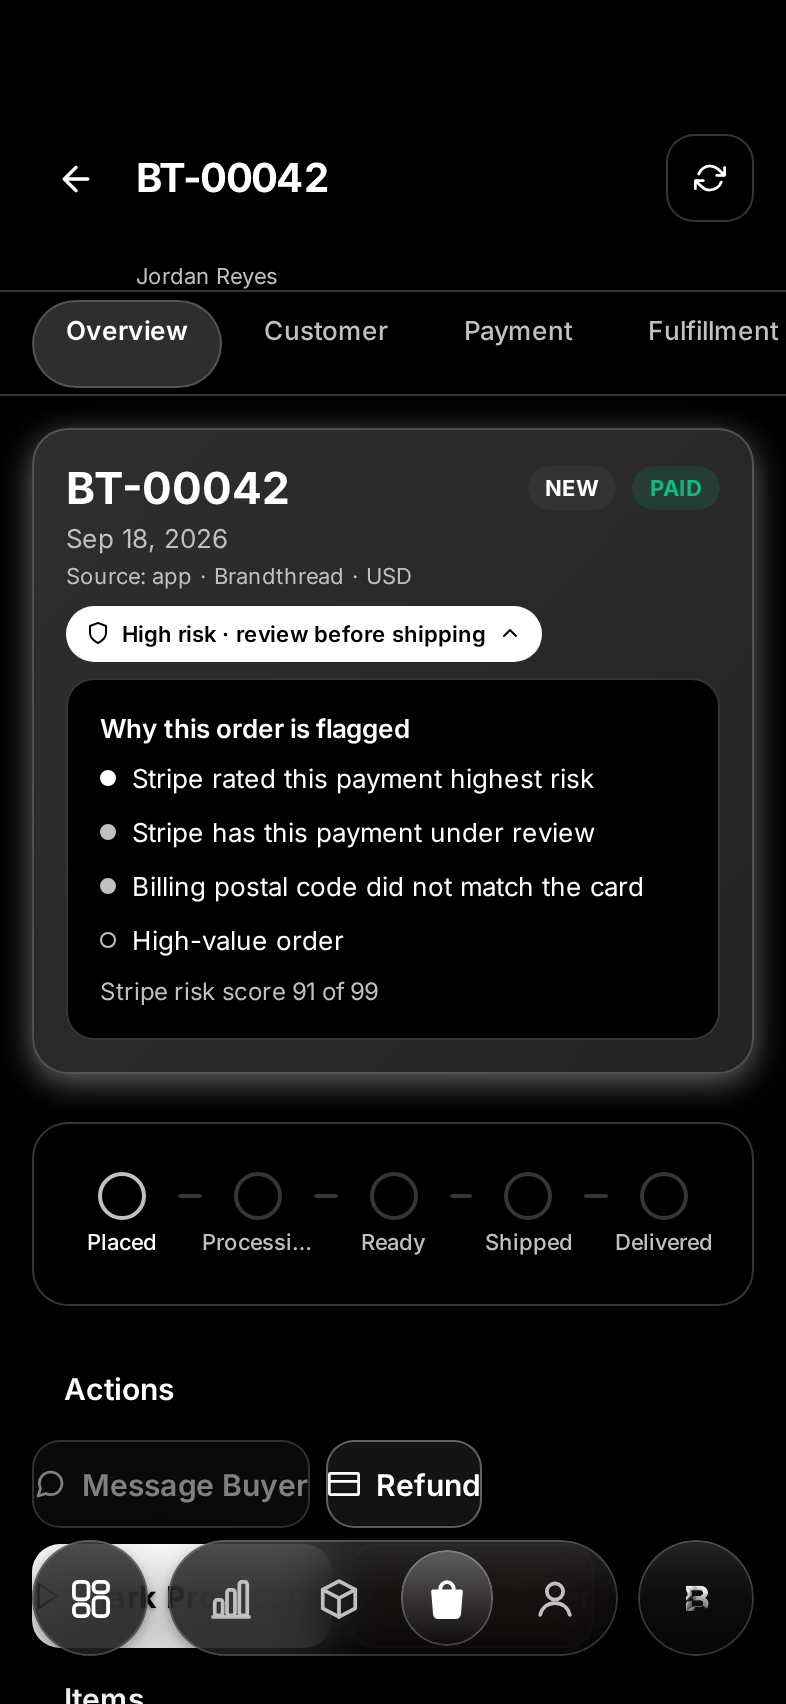
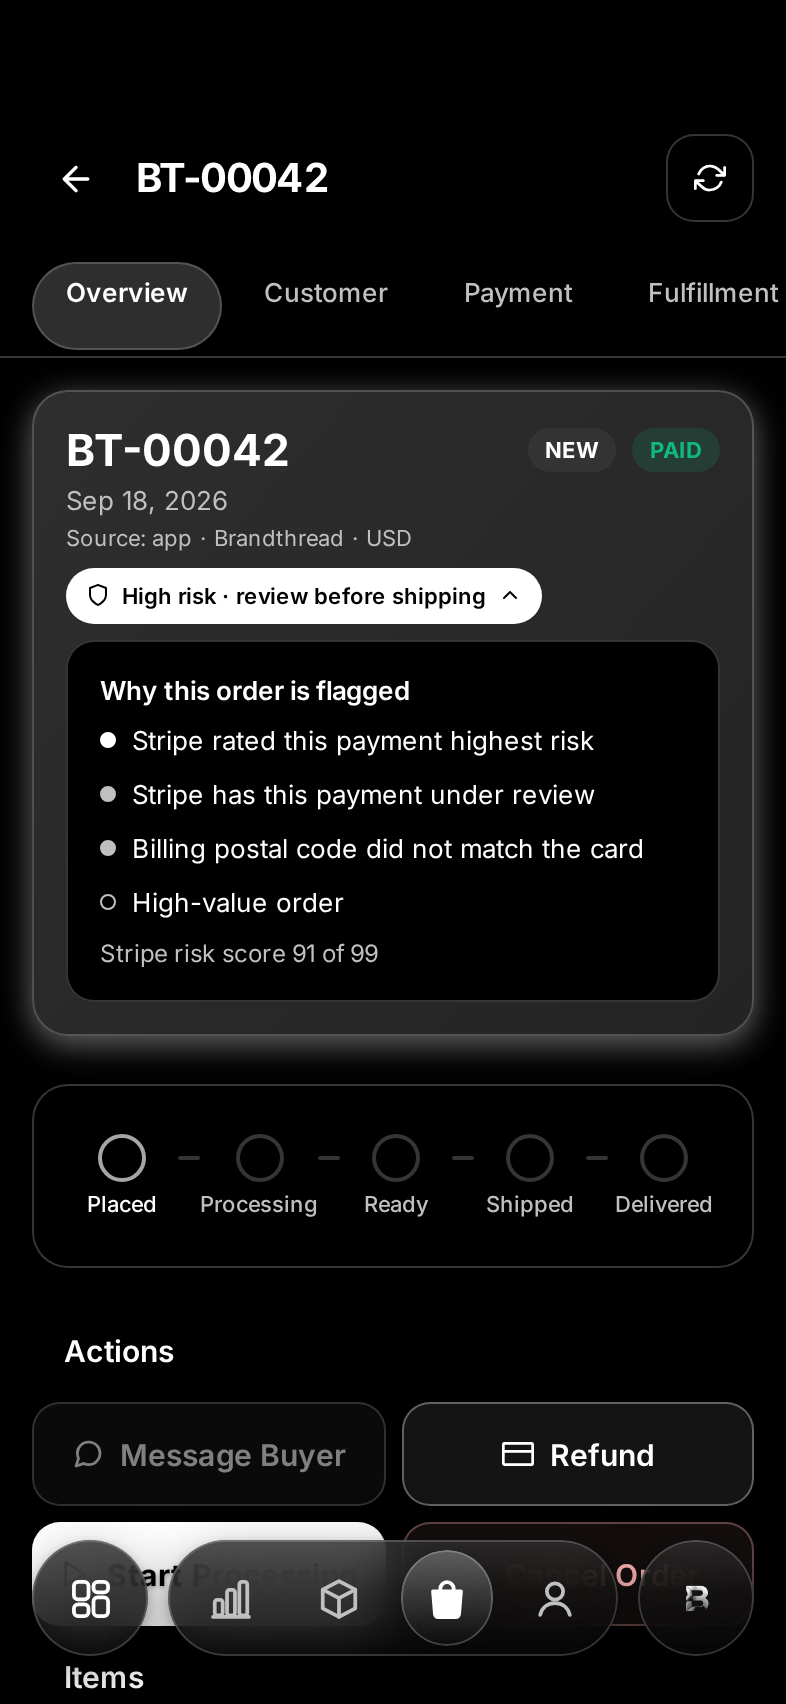
Order detail text-fit pass: bare header, equal action grid, untruncated step labels, fit audit
Claude-Session: https://claude.ai/code/session_01Ma6qha3jaE6QgkAFX2DNVQ

diff --git a/artifacts/mobile/app/order-detail.tsx b/artifacts/mobile/app/order-detail.tsx
@@ -823,7 +823,7 @@ export default function OrderDetailScreen() {
       {/* Header */}
       <ScreenHeader
         title={order.orderNumber}
-        subtitle={order.customer.name}
+        hideDivider
         variant="push"
         onBack={() => goBackOr(router, '/(tabs)/orders')}
         actions={[{ icon: 'refresh-cw', onPress: retryUpdates, accessibilityLabel: 'Refresh order' }]}
@@ -1102,20 +1102,20 @@ function OverviewTab({ order, onMarkProcessing, onMarkReadyToShip, onMarkShipped
       <View style={s.actionSection}>
         <SectionHeader title="Actions" />
         <View style={s.actionRow}>
-          <SecondaryButton
+          <View style={s.actionCell}><SecondaryButton
             label={messagingBuyer ? 'Opening…' : 'Message Buyer'}
             onPress={onMessageBuyer}
             icon="message-circle"
             disabled={messagingBuyer || !order.customer.buyerUserId}
-            style={{ flex: 1 }}
-          />
+            style={s.actionFill}
+          /></View>
           {order.payment.amountPaidCents > order.payment.amountRefundedCents && (
-            <SecondaryButton
+            <View style={s.actionCell}><SecondaryButton
               label="Refund"
               onPress={() => router.push(`/refund-detail?orderId=${order.id}` as never)}
               icon="credit-card"
-              style={{ flex: 1 }}
-            />
+              style={s.actionFill}
+            /></View>
           )}
         </View>
         {order.autoRefundedAt ? (
@@ -1123,21 +1123,21 @@ function OverviewTab({ order, onMarkProcessing, onMarkReadyToShip, onMarkShipped
         ) : null}
         {!order.autoRefundedAt && order.status === 'new' && (
           <View style={s.actionRow}>
-            <PrimaryButton label="Mark Processing" onPress={onMarkProcessing} icon="play" style={{ flex: 1 }} />
-            <SecondaryButton label="Cancel Order" onPress={onCancelPress} icon="x" style={{ flex: 1 }} accent={RED} />
+            <View style={s.actionCell}><PrimaryButton label="Start Processing" onPress={onMarkProcessing} icon="play" style={s.actionFill} /></View>
+            <View style={s.actionCell}><SecondaryButton label="Cancel Order" onPress={onCancelPress} icon="x" style={s.actionFill} accent={RED} /></View>
           </View>
         )}
         {!order.autoRefundedAt && order.status === 'processing' && (
           <View style={s.actionRow}>
-            <PrimaryButton label="Mark Ready to Ship" onPress={onMarkReadyToShip} icon="package" style={{ flex: 1 }} />
-            <SecondaryButton label="Fulfill Order" onPress={() => router.push(`/fulfill-order?orderId=${order.id}`)} icon="tag" style={{ flex: 1 }} />
+            <View style={s.actionCell}><PrimaryButton label="Ready to Ship" onPress={onMarkReadyToShip} icon="package" style={s.actionFill} /></View>
+            <View style={s.actionCell}><SecondaryButton label="Fulfill Order" onPress={() => router.push(`/fulfill-order?orderId=${order.id}`)} icon="tag" style={s.actionFill} /></View>
           </View>
         )}
         {!order.autoRefundedAt && order.status === 'ready_to_ship' && (
           <View style={s.actionCol}>
             <View style={s.actionRow}>
-              <PrimaryButton label="Fulfill Order" onPress={() => router.push(`/fulfill-order?orderId=${order.id}`)} icon="tag" style={{ flex: 1 }} />
-              <SecondaryButton label="Add Tracking" onPress={() => setAddingTracking(!addingTracking)} icon="map-pin" style={{ flex: 1 }} />
+              <View style={s.actionCell}><PrimaryButton label="Fulfill Order" onPress={() => router.push(`/fulfill-order?orderId=${order.id}`)} icon="tag" style={s.actionFill} /></View>
+              <View style={s.actionCell}><SecondaryButton label="Add Tracking" onPress={() => setAddingTracking(!addingTracking)} icon="map-pin" style={s.actionFill} /></View>
             </View>
             {addingTracking && (
               <BrandthreadCard style={s.inlineForm}>
@@ -1938,7 +1938,7 @@ const makeStyles = (theme: ReturnType<typeof useAppTheme>['theme']) => {
 
   // Tab bar
   tabBar:           { borderBottomWidth: 1, borderBottomColor: BORDER, maxHeight: 52, backgroundColor: SURFACE },
-  tabBarContent:    { paddingHorizontal: SP.md, paddingVertical: SP.xs, gap: SP.xs, alignItems: 'center' },
+  tabBarContent:    { paddingHorizontal: SP.md, paddingRight: SP.lg, paddingVertical: SP.xs, gap: SP.xs, alignItems: 'center' },
   tabItem:          { paddingHorizontal: SP.md, paddingVertical: SP.xs + 2, borderRadius: RADIUS.pill, borderWidth: 1, borderColor: 'transparent', backgroundColor: 'transparent' },
   tabItemActive:    { borderColor: PURPLE_DIM, backgroundColor: PURPLE_DIM },
   tabLabel:         { fontSize: FS.sm, fontFamily: FONT.medium, color: MUTED },
@@ -1966,6 +1966,8 @@ const makeStyles = (theme: ReturnType<typeof useAppTheme>['theme']) => {
   // Actions
   actionSection:    { gap: SP.sm },
   actionRow:        { flexDirection: 'row', gap: SP.sm },
+  actionCell:       { flex: 1, flexBasis: 0, minWidth: 0 },
+  actionFill:       { width: '100%' },
   actionCol:        { gap: SP.sm },
   readOnlyNote:     { fontSize: FS.xs, fontFamily: FONT.regular, color: theme.muted, lineHeight: 18 },
   deliveredCard:    { flexDirection: 'row', alignItems: 'center', gap: SP.sm },

diff --git a/artifacts/mobile/components/orders/OrderRiskBadge.tsx b/artifacts/mobile/components/orders/OrderRiskBadge.tsx
@@ -20,10 +20,6 @@ export type OrderRisk = {
   flags: { code: string; label: string; severity: 'info' | 'medium' | 'high' }[];
 };
 
-const SILVER = '#C0C0C0';
-const WHITE = '#FFFFFF';
-const BLACK = '#000000';
-
 export function shouldShowOrderRisk(risk: OrderRisk | null | undefined): risk is OrderRisk {
   return !!risk && (risk.level === 'elevated' || risk.level === 'highest');
 }
@@ -32,6 +28,9 @@ export function OrderRiskBadge({ risk }: { risk: OrderRisk | null | undefined })
   const { theme } = useAppTheme();
   const [open, setOpen] = useState(false);
   if (!shouldShowOrderRisk(risk)) return null;
+  const SILVER = theme.muted;
+  const WHITE = theme.text;
+  const BLACK = theme.background;
   const highest = risk.level === 'highest';
   const label = highest ? 'High risk · review before shipping' : 'Review before shipping';
 
@@ -46,7 +45,7 @@ export function OrderRiskBadge({ risk }: { risk: OrderRisk | null | undefined })
         style={[styles.pill, { backgroundColor: highest ? WHITE : SILVER }]}
       >
         <Feather name="shield" size={12} color={BLACK} />
-        <Text style={styles.pillText}>{label}</Text>
+        <Text style={[styles.pillText, { color: BLACK }]}>{label}</Text>
         <Feather name={open ? 'chevron-up' : 'chevron-down'} size={12} color={BLACK} />
       </Pressable>
 
@@ -84,7 +83,7 @@ const styles = StyleSheet.create({
     flexDirection: 'row', alignItems: 'center', gap: SP.xs + 2, alignSelf: 'flex-start',
     borderRadius: RADIUS.pill, paddingHorizontal: SP.sm + 2, paddingVertical: SP.xs + 2, minHeight: 28,
   },
-  pillText: { fontSize: FS.xs, fontFamily: FONT.semibold, color: BLACK },
+  pillText: { fontSize: FS.xs, fontFamily: FONT.semibold },
   panel: { marginTop: SP.sm, borderWidth: 1, borderRadius: RADIUS.md, padding: SP.md, gap: SP.sm },
   panelTitle: { fontSize: FS.sm, fontFamily: FONT.semibold },
   flagRow: { flexDirection: 'row', alignItems: 'flex-start', gap: SP.sm },

diff --git a/artifacts/mobile/components/ScreenHeader.tsx b/artifacts/mobile/components/ScreenHeader.tsx
@@ -44,6 +44,8 @@ interface ScreenHeaderProps {
    * itself, only which icon a screen that already has one shows.
    */
   variant?: 'push' | 'modal';
+  /** Drops the hairline under the header. Default false (every existing screen keeps it). */
+  hideDivider?: boolean;
 }
 
 /** Design-system rule: at most 2 action icons on the right, primary rightmost. */
@@ -61,7 +63,7 @@ const MAX_HEADER_ACTIONS = 2;
 const TITLE_SIZE = 20;
 
 export function ScreenHeader({
-  title, subtitle, rightElement, actions, scrollY, collapseDistance = 48, onBack, backTestID, backAccessibilityLabel, variant = 'push',
+  title, subtitle, rightElement, actions, scrollY, collapseDistance = 48, onBack, backTestID, backAccessibilityLabel, variant = 'push', hideDivider = false,
 }: ScreenHeaderProps) {
   const colors = useColors();
   const cappedActions = actions?.slice(-MAX_HEADER_ACTIONS);
@@ -84,7 +86,7 @@ export function ScreenHeader({
   const closeOrBack = () => (onBack ? onBack() : goBackOr(router));
 
   return (
-    <View testID="screen-header" style={[styles.wrap, { paddingTop: topPad, borderBottomColor: colors.border }]}>
+    <View testID="screen-header" style={[styles.wrap, { paddingTop: topPad, borderBottomColor: colors.border }, hideDivider && { borderBottomWidth: 0 }]}>
       <View style={styles.container}>
         {variant === 'push' && (
           <PressableScale

diff --git a/artifacts/mobile/components/orders/OrderStatusTimeline.tsx b/artifacts/mobile/components/orders/OrderStatusTimeline.tsx
@@ -94,7 +94,6 @@ export function OrderStatusTimeline({
               </Animated.View>
               {!compact ? (
                 <Text
-                  numberOfLines={1}
                   style={[styles.stageLabel, { color: active || done ? theme.text : theme.muted }]}
                 >
                   {STAGE_LABEL[stage]}
@@ -120,7 +119,7 @@ export function OrderStatusTimeline({
 const styles = StyleSheet.create({
   row: { flexDirection: 'row', alignItems: 'flex-start', paddingVertical: SP.sm },
   rowCompact: { paddingVertical: 0 },
-  stageCol: { alignItems: 'center', width: 56 },
+  stageCol: { alignItems: 'center', minWidth: 56 },
   dot: {
     width: 24,
     height: 24,
